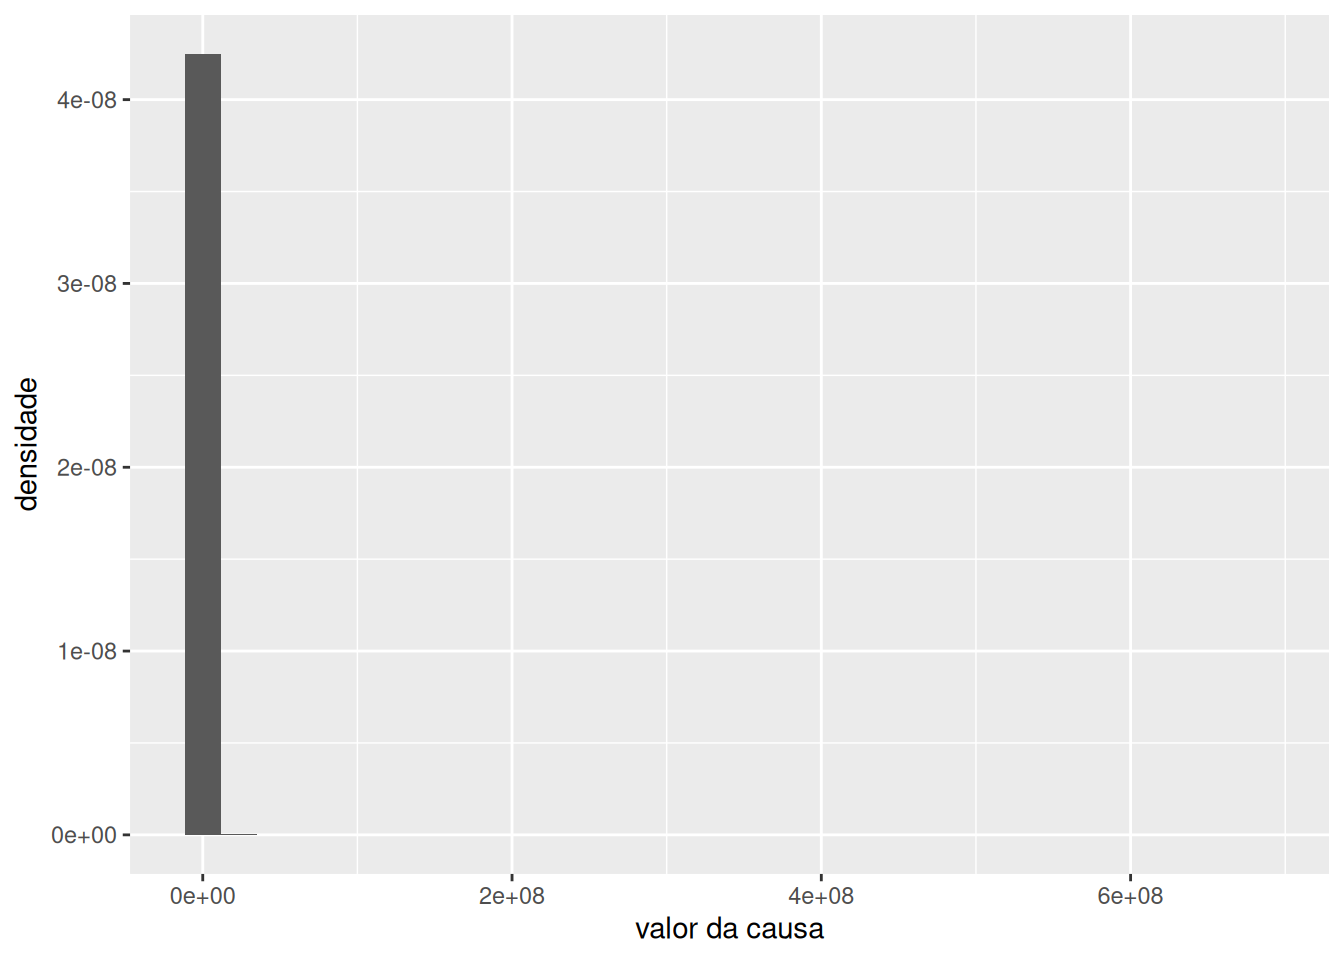
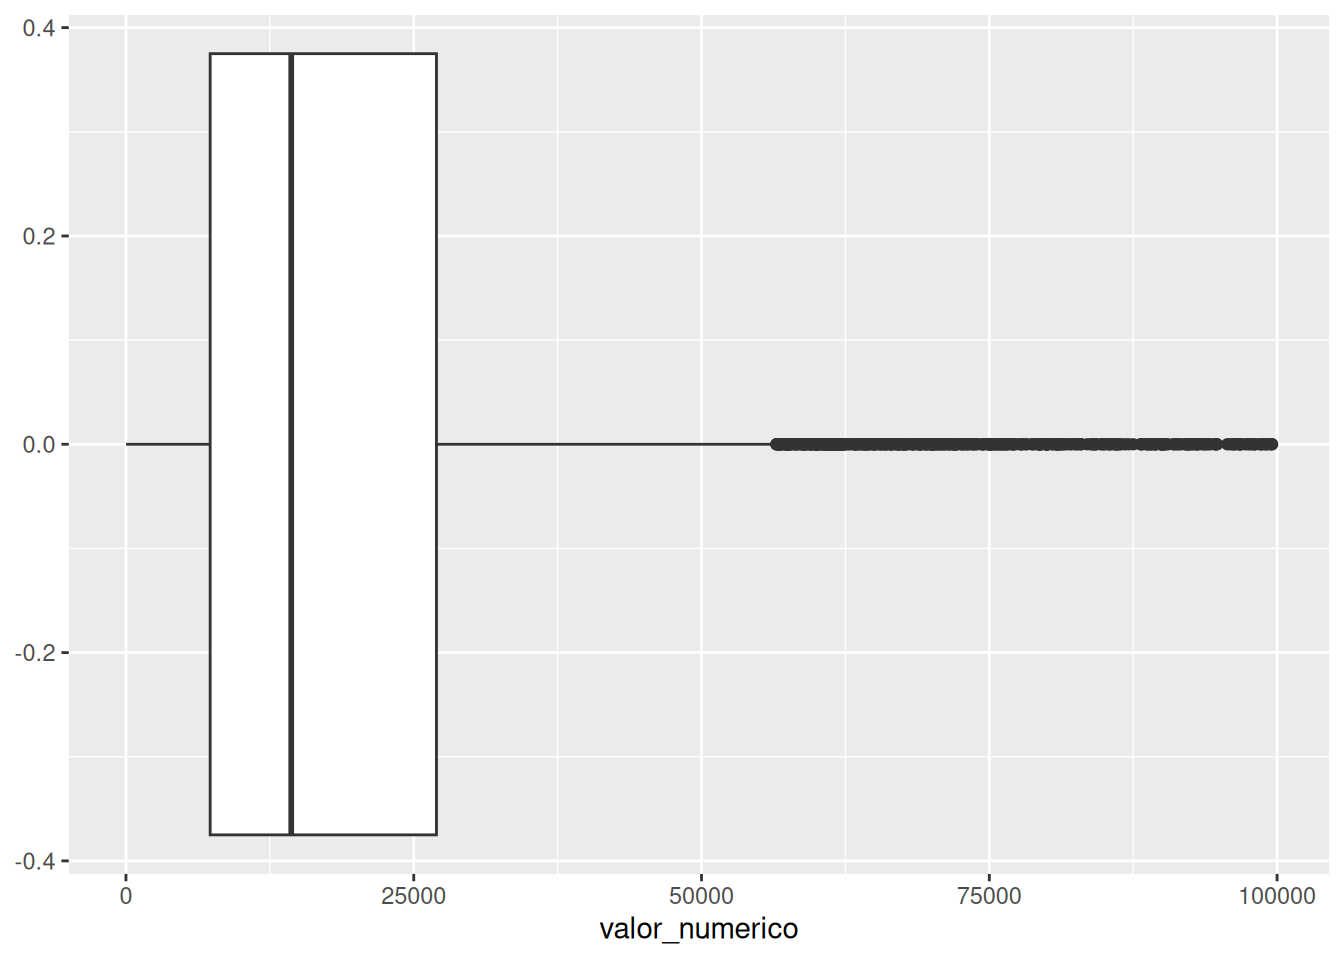
:jurimetria: visualizacao

diff --git a/content/courses/jurimetria/aulas/04_visualizacao.html b/content/courses/jurimetria/aulas/04_visualizacao.html
@@ -202,62 +202,37 @@ Este gráfico pode ser obtido no <strong>R</strong> pelo comando <em>hist()</em>
   xlab(&quot;valor da causa&quot;) + 
   ylab(&quot;densidade&quot;)</code></pre>
 <p><img src="/courses/jurimetria/aulas/04_visualizacao_files/figure-html/unnamed-chunk-16-1.png" width="672" /></p>
-<p>Às vezes, o histograma também não resume suficientemente as observações. Por exemplo, a figura abaixo apresenta o histograma do valor da causa para a totalidade das ações:</p>
-<pre class="r"><code>data %&gt;% 
-  ggplot(aes(x = valor_numerico)) + 
-geom_histogram(aes(y=..density..)) +
-xlab(&quot;valor da causa&quot;) + ylab(&quot;densidade&quot;)</code></pre>
-<p><img src="/courses/jurimetria/aulas/04_visualizacao_files/figure-html/unnamed-chunk-17-1.png" width="672" /></p>
-<p>Para resolver este problema,
-veremos a seguir um gráfico que
-resume as observações ainda mais
-que o histograma.</p>
+<p>Às vezes desejamos um gráfico que resume os dados ainda mais do que um histograma. Este é o objetivo do box plot, que veremos a seguir:</p>
 </div>
 <div id="box-plot" class="section level3">
 <h3>Box plot</h3>
-<p>Um <strong>box plot</strong> <span class="citation">(<a href="#ref-Tukey1977">Tukey 1977</a>)</span> é
-um gráfico para visualizar
-uma única variável que
-consiste em apresentar visualmente
-5 medidas resumo.
-Antes de descrever estas medidas,
-é útil visualizar um boxplot.
-A seguir, obtemos no <strong>R</strong> um
-box plot para o comprimento das
-sépalas no banco de dados <em>iris</em>:</p>
-<pre class="r"><code>boxplot(iris$Sepal.Length, ylab = &quot;Comprimento da sépala&quot;)</code></pre>
+<p>Um <strong>box plot</strong> <span class="citation">(<a href="#ref-Tukey1977">Tukey 1977</a>)</span> é um gráfico para visualizar uma única variável que
+consiste em apresentar visualmente 5 medidas resumo. Antes de descrever estas medidas, é útil visualizar um boxplot. No <strong>R</strong>, o box plot pode ser obtido pelo comando <em>boxplot()</em>. Para o valor da ação quando esta é inferior a 100 mil, obtemos:</p>
+<pre class="r"><code>data %&gt;% 
+  filter(valor_numerico &lt; 10^5) %&gt;%
+  ggplot(aes(x = valor_numerico)) +
+  geom_boxplot()</code></pre>
+<p><img src="/courses/jurimetria/aulas/04_visualizacao_files/figure-html/unnamed-chunk-17-1.png" width="672" /></p>
+<p>O box plot contém 5 traços principais. O traço em negrito dentro do retângulo indica a mediana (Q2) das observações. Os traços nos limites do retângulo indicam o primeiro (Q1) e o terceiro (Q3) quartis. Assim, observamos que cerca de 50% das observações estão dentro do retângulo e
+que um valor típico para as observações é representado pelo traço em negrito. A seguir, lembre que a amplitude interquartílica (IQR) é definida como <span class="math inline">\(IQR = Q3-Q1\)</span>. Definimos o limite superior (LS) e inferior (LI) como, respectivamente, <span class="math inline">\(LS=Q3+1.5*IQR\)</span> e <span class="math inline">\(LI=Q1-1.5*IQR\)</span>. Os limites das linhas superior e inferior no boxplot são, respectivamente, a maior observação menor que LS e
+a menor observação maior que LI. Esta é uma faixa de valores tal que seria improvável
+obter uma observação fora dela. Observações fora destes limites são representadas
+no boxplot por asteriscos e são comumente chamadas de <em>outliers</em>.</p>
+<p>Muitas vezes, é útil separar as observações em grupos e construir boxplots para cada um destes.
+O exemplo a seguir, constrói boxplots para o valor dacausa quando separamos as observações por assunto.</p>
+<pre class="r"><code>assuntos_freq = names(sort(table(data$assunto_info), decreasing = TRUE)[1:10])
+data %&gt;% 
+  filter(valor_numerico &lt; 10^5) %&gt;% 
+  mutate(
+    assunto_novo = ifelse(assunto_info %in% assuntos_freq,
+                          assunto_info,
+                          &quot;outros&quot;)
+  ) %&gt;% 
+  ggplot(aes(y = valor_numerico, x = assunto_novo, color = assunto_novo)) +
+  geom_boxplot() +
+  theme(axis.text.x = element_blank()) +
+  ylab(&quot;Valor da causa&quot;)</code></pre>
 <p><img src="/courses/jurimetria/aulas/04_visualizacao_files/figure-html/unnamed-chunk-18-1.png" width="672" /></p>
-<p>O box plot contém 5 traços principais.
-O traço em negrito dentro do retângulo indicam
-a mediana (Q2) das observações.
-Os traços nos limites do retângulo indicam
-o primeiro (Q1) e o terceiro (Q3) quartis.
-Assim, observamos que cerca de 50%
-das observações estão dentro do retângulo e
-que um valor típico para as observações é
-representado pelo traço em negrito.
-A seguir, lembre que o intervalo interquartílico
-(IQR) é definido como <span class="math inline">\(Q3-Q1\)</span>.
-Definimos o limite superior (LS) e inferior (LI) como,
-respectivamente, <span class="math inline">\(LS=Q3+1.5*IQR\)</span> e <span class="math inline">\(LI=Q1-1.5*IQR\)</span>.
-Os limites das linhas superior e inferior no boxplot
-são, respectivamente, a maior observação menor que LS e
-a menor observação maior que LI.
-Esta é uma faixa de valores tal que seria improvável
-obter uma observação fora dela.
-Observações fora destes limites são representadas
-no boxplot por asteriscos e são comumente chamadas de
-“outliers”.</p>
-<p>Muitas vezes, é útil separar as observações em grupos e
-construir boxplots para cada um destes.
-O exemplo a seguir, constrói boxplots para
-o efeito do adubo quando separamos as observações
-em 2 grupos: sem ou com nitrato.</p>
-<pre class="r"><code>#ggplot(aes(y = efeito, 
-#           x = nitrato, 
-#           color = nitrato), 
-#       data = adubo) + 
-#geom_boxplot()</code></pre>
 <p>Note que, ainda que a mediana no grupo com
 nitrato seja ligeiramente superior à mediana
 do grupo sem nitrato, a diferença entre
@@ -302,7 +277,7 @@ o comprimento e largura das pétalas.</p>
 <pre class="r"><code>plot(iris$Petal.Length, iris$Petal.Width,
      xlab=&quot;Comprimento da petala&quot;,
      ylab=&quot;Largura da petala&quot;)</code></pre>
-<p><img src="/courses/jurimetria/aulas/04_visualizacao_files/figure-html/unnamed-chunk-21-1.png" width="672" /></p>
+<p><img src="/courses/jurimetria/aulas/04_visualizacao_files/figure-html/unnamed-chunk-20-1.png" width="672" /></p>
 <p>Note que, em média,
 quanto maior o comprimento da pétala,
 maior será a sua largura.
@@ -318,7 +293,7 @@ geom_smooth(method=&#39;lm&#39;, color = &quot;red&quot;) +
 xlab(&quot;Comprimento da petala&quot;) +
 ylab(&quot;Largura da petala&quot;)</code></pre>
 <pre><code>## `geom_smooth()` using formula = &#39;y ~ x&#39;</code></pre>
-<p><img src="/courses/jurimetria/aulas/04_visualizacao_files/figure-html/unnamed-chunk-22-1.png" width="672" /></p>
+<p><img src="/courses/jurimetria/aulas/04_visualizacao_files/figure-html/unnamed-chunk-21-1.png" width="672" /></p>
 </div>
 </div>
 </div>
